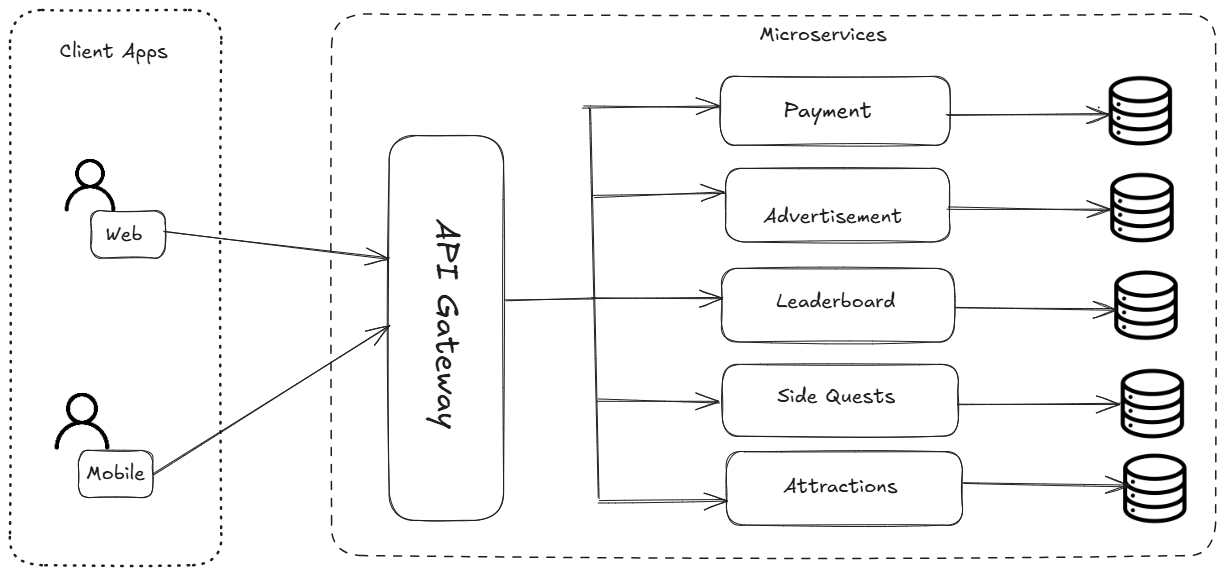
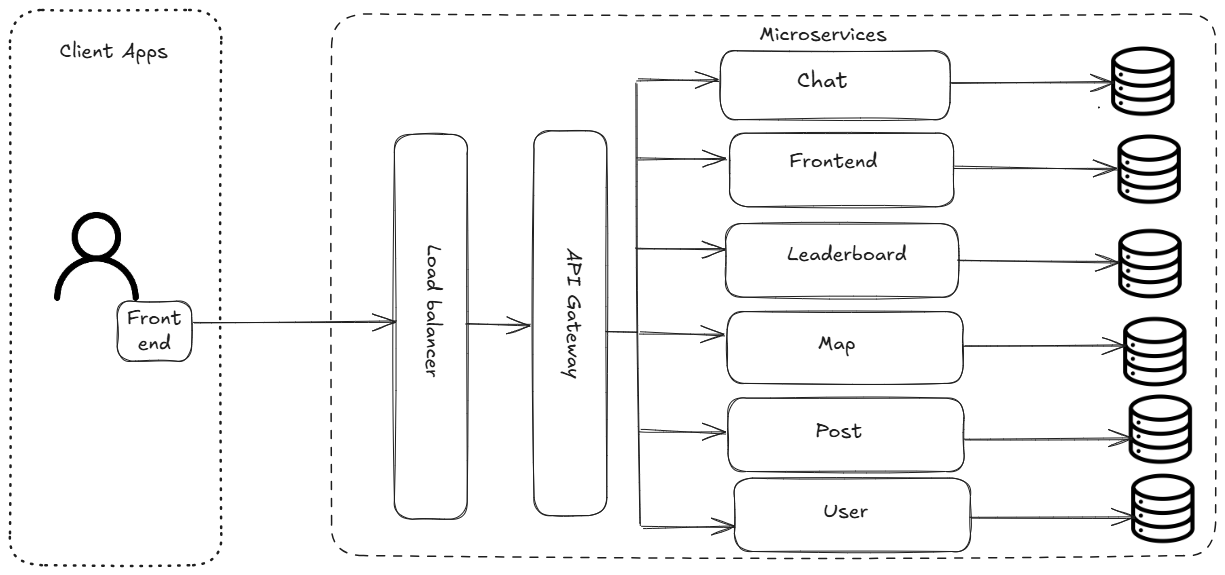
Add experiment

diff --git a/report/Team_11_Final_Report.md b/report/Team_11_Final_Report.md
@@ -540,6 +540,20 @@ The platform relies on several external dependencies to function effectively. So
 
 For the current proof of concept implementation, we made use of [Leaflet](leafletjs.com) to develop the interactive map and OpenStreetMap for the dataset.
 
+## 12 Experiment: Proving Scalability
+To evaluate the scalability of the TravelGo system, we conduct load testing using Locust, an open-source tool for simulating user traffic. The objective of this experiment is to verify that the chat service can handle increasing user loads without significant failures or degradation in response time.
+
+In the experiment, we configure Locust to simulate multiple concurrent users sending chat messages through the API Gateway. The test environment consists of all microservices deployed via Docker Compose, ensuring realistic inter-service communication. We observe key performance indicators such as request rate (RPS), failure rate, and average response time as the number of simulated users increased.
+
+We initially deploy multiple API Gateway replicas and configured NGINX as a load balancer for these replicas. When only a single instance of the chat service was active, response times increases and occasional request failures occur as the number of concurrent users grow. To address this, we deploy multiple replicas of these services to implement horizontal scaling and route requests through an NGINX load balancer. NGINX distributes incoming requests evenly across available instances, preventing any single container from becoming a bottleneck.
+
+After scaling the chat service, Locust results showed significant performance improvements: the average response time decreased and throughput (RPS) increased even as the number of simulated users rose. These results demonstrate that TravelGo’s microservices-based design supports horizontal scaling at the service level, allowing individual components such as the chat service to handle higher loads efficiently without affecting others.
+
+These results demonstrate that TravelGo’s microservices architecture supports elastic scalability: services can be scaled independently based on demand without affecting overall system performance. This confirms that the chat service can efficiently handle higher loads, maintaining system integrity and user experience.Future tests can extend this setup to other services, validating end-to-end scalability across the entire TravelGo ecosystem.
+
+![](experiment-results.png)
+<p style="text-align: center;"> Figure 12.1: Locust load-test experiment results</p>
+
 ## 13 Revenue Model
 
 In order to ensure long-term success for a platform, a sustainable revenue model is essential. The presented system would blend reality exploration with competitive gaming, meaning it can attract tourism-focused partnerships, as well as game-industry monetization.

diff --git a/poc/README.md b/poc/README.md
@@ -38,8 +38,24 @@ http://127.0.0.1:5008
 http://172.18.0.8:5008
 ```
 
-### locust
+### Experminet Setup - Locust
+```
+Install locust using the following command:
 ```
 !pip install locust
+```
+Make sure your docker is open and running using this command : 
+```
+docker compose up -d --scale api_gateway=3 -d 
+```
+In a new terminal, run the command: 
+```
 locust -f load-tests/locustfile.py --host=http://localhost:5000
+```
+Open http://localhost:8089/ to see locust hosted. Set number of users to 1000 and Swarms as 100 (just default for this experiment)
+
+To implement scaling and create replicas: 
+```
+docker compose up --scale chat_service=10 -d
+
 ```
